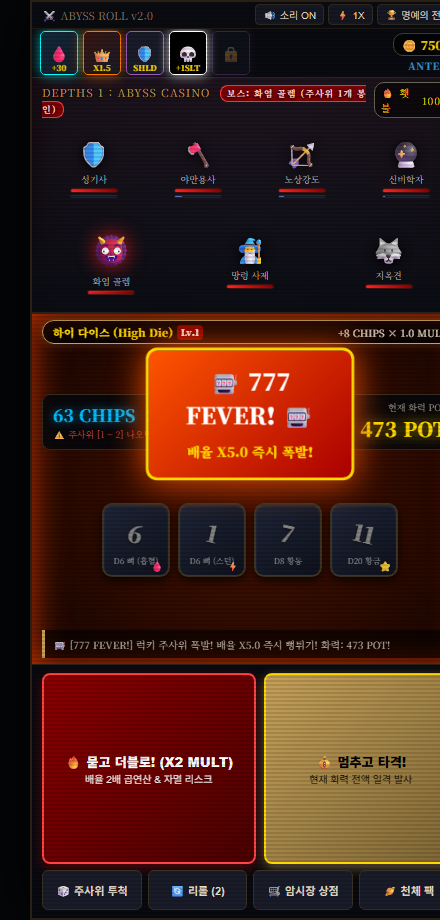
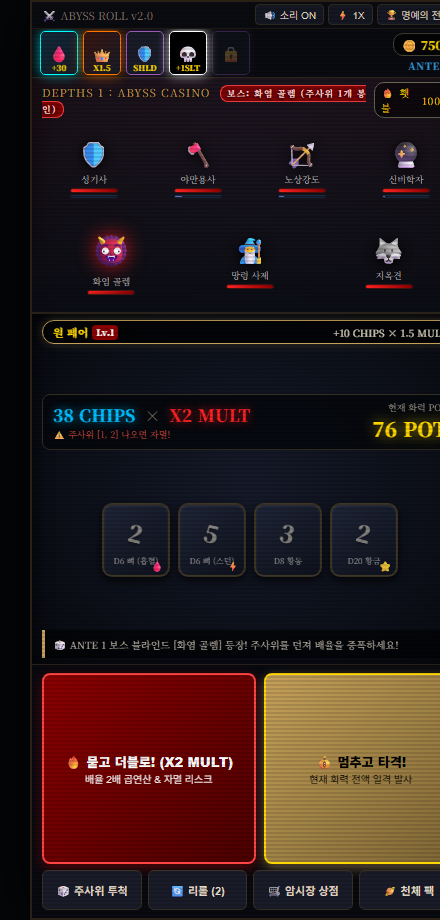
feat(abyss-roll): 2.1 Tarot booster packs, mobile haptic feedback, animated dice tumbling, and custom hand sound fanfares

Changed region(s): [[0.0591, 0.3348, 1.0, 0.7304]]

diff --git a/abyss_roll.html b/abyss_roll.html
@@ -936,6 +936,12 @@
         <button class="btn-buy" onclick="buyItem('celestial_pack', 110)">개봉하기</button>
       </div>
       <div class="shop-card">
+        <div class="shop-card-title">🔮 점술 타로 팩</div>
+        <div class="shop-card-desc">신비한 타로 아르카나 카드로 주사위/골드/체력 강화</div>
+        <div class="shop-card-price">95G</div>
+        <button class="btn-buy" onclick="buyItem('tarot_pack', 95)">개봉하기</button>
+      </div>
+      <div class="shop-card">
         <div class="shop-card-title">🛡 불사조 보험 계약</div>
         <div class="shop-card-desc">자멸(BUST) 1회 완전 무효 방어</div>
         <div class="shop-card-price">100G</div>
@@ -1097,11 +1103,31 @@ function playCoinSound() {
   setTimeout(() => playTone(1318, 0.15, 'sine', 0.4), 80 / gameSpeed);
 }
 
-function playFeverFanfare() {
-  [523, 659, 783, 1046, 1318].forEach((f, idx) => {
-    setTimeout(() => playTone(f, 0.15, 'triangle', 0.5), (idx * 90) / gameSpeed);
-  });
+function triggerHaptic(type) {
+  if (!navigator.vibrate) return;
+  try {
+    if (type === 'roll') navigator.vibrate(25);
+    else if (type === 'push') navigator.vibrate([35, 20, 55]);
+    else if (type === 'bust') navigator.vibrate([90, 40, 90, 40, 150]);
+    else if (type === 'crit') navigator.vibrate([100, 30, 80]);
+    else if (type === 'coin') navigator.vibrate([15, 10, 20]);
+  } catch(e) {}
 }
+
+function playHandFanfare(hand) {
+  if (isAudioMuted) return;
+  initAudio();
+  if (hand === '야추 (5 of a Kind)') {
+    [523, 659, 783, 1046, 1318].forEach((f, i) => setTimeout(() => playTone(f, 0.15, 'triangle', 0.5), (i * 70) / gameSpeed));
+  } else if (hand === '포카드 (4 of a Kind)' || hand === '풀하우스 (Full House)') {
+    [440, 554, 659, 880].forEach((f, i) => setTimeout(() => playTone(f, 0.12, 'sine', 0.45), (i * 80) / gameSpeed));
+  } else if (hand === '스트레이트 (Straight)' || hand === '트리플 (3 of a Kind)') {
+    [392, 523, 659].forEach((f, i) => setTimeout(() => playTone(f, 0.1, 'sine', 0.4), (i * 90) / gameSpeed));
+  } else {
+    playTone(440, 0.08, 'sine', 0.3);
+  }
+}
+
 
 function toggleAudio() {
   initAudio();
@@ -1211,29 +1237,41 @@ function evaluateDiceHand(values) {
 function initialRoll() {
   initAudio();
   playDiceSound();
+  triggerHaptic('roll');
 
-  // 주사위 회전 연출
+  // 주사위 롤링 텀블링 애니메이션
   for (let i = 0; i < 4; i++) {
     const el = document.getElementById(`slot-${i}`);
     el.classList.add('rolling');
-    setTimeout(() => el.classList.remove('rolling'), 350 / gameSpeed);
+    let tumbleCount = 0;
+    const interval = setInterval(() => {
+      document.getElementById(`dval-${i}`).innerText = Math.floor(Math.random() * diceSides[i]) + 1;
+      tumbleCount++;
+      if (tumbleCount > 5) {
+        clearInterval(interval);
+        document.getElementById(`dval-${i}`).innerText = diceValues[i];
+        el.classList.remove('rolling');
+      }
+    }, 40 / gameSpeed);
   }
 
   let luckyCount = 0;
   for (let i = 0; i < 4; i++) {
     diceValues[i] = Math.floor(Math.random() * diceSides[i]) + 1;
-    document.getElementById(`dval-${i}`).innerText = diceValues[i];
     if (diceValues[i] >= 7) luckyCount++;
   }
 
-  currentDetectedHand = evaluateDiceHand(diceValues);
-  applyHandScore();
+  setTimeout(() => {
+    currentDetectedHand = evaluateDiceHand(diceValues);
+    applyHandScore();
+    playHandFanfare(currentDetectedHand);
 
-  if (luckyCount >= 2) {
-    triggerFeverTime();
-  } else {
-    setLog(`🎲 [${currentDetectedHand}] 감지! 화력: ${currentPot} POT! 묻고 더블로!`);
-  }
+    if (luckyCount >= 2) {
+      triggerFeverTime();
+    } else {
+      setLog(`🎲 [${currentDetectedHand}] 감지! 화력: ${currentPot} POT! 묻고 더블로!`);
+    }
+  }, 220 / gameSpeed);
 }
 
 function applyHandScore() {
@@ -1323,6 +1361,7 @@ function pushDoubleDown() {
     }
 
     playBustSound();
+    triggerHaptic('bust');
     document.getElementById('mobile-viewport').classList.add('bust-screen-shake');
     setTimeout(() => document.getElementById('mobile-viewport').classList.remove('bust-screen-shake'), 400);
 
@@ -1353,6 +1392,7 @@ function pushDoubleDown() {
 
   updateBalatroUI();
   playCoinSound();
+  triggerHaptic('push');
   setLog(`🔥 [X2 MULT 돌파!] 주사위 [${testRoll}] 안착! 배율 ${currentMult}X! 화력: ${currentPot} POT!`);
 }
 
@@ -1363,6 +1403,7 @@ function bankAndStrike() {
     return;
   }
 
+  triggerHaptic('crit');
   let finalDmg = currentPot;
   let multSnapshot = currentMult;
   totalDamageDealt += finalDmg;
@@ -1539,6 +1580,9 @@ function buyItem(itemId, price) {
   } else if (itemId === 'celestial_pack') {
     closeShop();
     openPackModal('celestial');
+  } else if (itemId === 'tarot_pack') {
+    closeShop();
+    openPackModal('tarot');
   } else if (itemId === 'bust_shield') {
     hasBustShield = true;
     document.getElementById('joker-2').style.opacity = '1';
@@ -1582,7 +1626,31 @@ function openPackModal(type) {
       const card = document.createElement('div');
       card.className = 'pack-choice-card';
       card.innerHTML = `<div class="pack-card-info"><h4>${j.name}</h4><p>${j.desc}</p></div><button class="btn-buy" style="padding:6px 12px;">선택</button>`;
-      card.onclick = () => { j.fn(); closePackModal(); playFeverFanfare(); };
+      card.onclick = () => { j.fn(); closePackModal(); playHandFanfare('야추 (5 of a Kind)'); };
+      container.appendChild(card);
+    });
+  } else if (type === 'tarot') {
+    title.innerText = '🔮 점술 타로 팩 개봉';
+    const tarots = [
+      { name: '마법사 (The Magician)', desc: '2번 주사위를 즉시 D20 황금 주사위로 승급', fn: () => { diceSides[2] = 20; document.getElementById('dtag-2').innerText = 'D20 황금'; showBanner('🔮 2번 주사위가 D20으로 승급!'); } },
+      { name: '광대 (The Fool)', desc: '심연의 골드 보물상자 개봉 (+200G 즉시 획득)', fn: () => { gold += 200; document.getElementById('gold-val').innerText = `${gold}G`; spawnCoinShower(); showBanner('🃏 +200G 골드 복사 획득!'); } },
+      { name: '정의 (Justice)', desc: '파티 전체 체력 100% 완전 회복 및 스트레스 0 정화', fn: () => {
+        heroes.forEach((h, i) => { h.hp = h.maxHp; h.stress = 0; });
+        updateEntityUI();
+        showBanner('⚖ 파티 체력/스트레스 완전 회복!');
+      }},
+      { name: '악마 (The Devil)', desc: '상시 배율 +0.6X 영구 폭발 (파티 스트레스 +20)', fn: () => {
+        extraJokerMult += 0.6;
+        heroes.forEach(h => h.stress = Math.min(100, h.stress + 20));
+        updateEntityUI();
+        showBanner('😈 악마의 계약 체결! 배율 +0.6X 폭발!');
+      }}
+    ];
+    tarots.forEach(t => {
+      const card = document.createElement('div');
+      card.className = 'pack-choice-card';
+      card.innerHTML = `<div class="pack-card-info"><h4>${t.name}</h4><p>${t.desc}</p></div><button class="btn-buy" style="padding:6px 12px;">선택</button>`;
+      card.onclick = () => { t.fn(); closePackModal(); playHandFanfare('포카드 (4 of a Kind)'); };
       container.appendChild(card);
     });
   } else {
@@ -1601,7 +1669,7 @@ function openPackModal(type) {
         showBanner(`🪐 ${p.name} 흡수! [${p.hand}] Lv.${handBook[p.hand].lvl} 달성!`);
         applyHandScore();
         closePackModal();
-        playFeverFanfare();
+        playHandFanfare('포카드 (4 of a Kind)');
       };
       container.appendChild(card);
     });

diff --git a/build_full_abyss_roll.py b/build_full_abyss_roll.py
@@ -942,6 +942,12 @@ HTML_CONTENT = """<!DOCTYPE html>
         <button class="btn-buy" onclick="buyItem('celestial_pack', 110)">개봉하기</button>
       </div>
       <div class="shop-card">
+        <div class="shop-card-title">🔮 점술 타로 팩</div>
+        <div class="shop-card-desc">신비한 타로 아르카나 카드로 주사위/골드/체력 강화</div>
+        <div class="shop-card-price">95G</div>
+        <button class="btn-buy" onclick="buyItem('tarot_pack', 95)">개봉하기</button>
+      </div>
+      <div class="shop-card">
         <div class="shop-card-title">🛡 불사조 보험 계약</div>
         <div class="shop-card-desc">자멸(BUST) 1회 완전 무효 방어</div>
         <div class="shop-card-price">100G</div>
@@ -1103,11 +1109,31 @@ function playCoinSound() {
   setTimeout(() => playTone(1318, 0.15, 'sine', 0.4), 80 / gameSpeed);
 }
 
-function playFeverFanfare() {
-  [523, 659, 783, 1046, 1318].forEach((f, idx) => {
-    setTimeout(() => playTone(f, 0.15, 'triangle', 0.5), (idx * 90) / gameSpeed);
-  });
+function triggerHaptic(type) {
+  if (!navigator.vibrate) return;
+  try {
+    if (type === 'roll') navigator.vibrate(25);
+    else if (type === 'push') navigator.vibrate([35, 20, 55]);
+    else if (type === 'bust') navigator.vibrate([90, 40, 90, 40, 150]);
+    else if (type === 'crit') navigator.vibrate([100, 30, 80]);
+    else if (type === 'coin') navigator.vibrate([15, 10, 20]);
+  } catch(e) {}
 }
+
+function playHandFanfare(hand) {
+  if (isAudioMuted) return;
+  initAudio();
+  if (hand === '야추 (5 of a Kind)') {
+    [523, 659, 783, 1046, 1318].forEach((f, i) => setTimeout(() => playTone(f, 0.15, 'triangle', 0.5), (i * 70) / gameSpeed));
+  } else if (hand === '포카드 (4 of a Kind)' || hand === '풀하우스 (Full House)') {
+    [440, 554, 659, 880].forEach((f, i) => setTimeout(() => playTone(f, 0.12, 'sine', 0.45), (i * 80) / gameSpeed));
+  } else if (hand === '스트레이트 (Straight)' || hand === '트리플 (3 of a Kind)') {
+    [392, 523, 659].forEach((f, i) => setTimeout(() => playTone(f, 0.1, 'sine', 0.4), (i * 90) / gameSpeed));
+  } else {
+    playTone(440, 0.08, 'sine', 0.3);
+  }
+}
+
 
 function toggleAudio() {
   initAudio();
@@ -1217,29 +1243,41 @@ function evaluateDiceHand(values) {
 function initialRoll() {
   initAudio();
   playDiceSound();
+  triggerHaptic('roll');
 
-  // 주사위 회전 연출
+  // 주사위 롤링 텀블링 애니메이션
   for (let i = 0; i < 4; i++) {
     const el = document.getElementById(`slot-${i}`);
     el.classList.add('rolling');
-    setTimeout(() => el.classList.remove('rolling'), 350 / gameSpeed);
+    let tumbleCount = 0;
+    const interval = setInterval(() => {
+      document.getElementById(`dval-${i}`).innerText = Math.floor(Math.random() * diceSides[i]) + 1;
+      tumbleCount++;
+      if (tumbleCount > 5) {
+        clearInterval(interval);
+        document.getElementById(`dval-${i}`).innerText = diceValues[i];
+        el.classList.remove('rolling');
+      }
+    }, 40 / gameSpeed);
   }
 
   let luckyCount = 0;
   for (let i = 0; i < 4; i++) {
     diceValues[i] = Math.floor(Math.random() * diceSides[i]) + 1;
-    document.getElementById(`dval-${i}`).innerText = diceValues[i];
     if (diceValues[i] >= 7) luckyCount++;
   }
 
-  currentDetectedHand = evaluateDiceHand(diceValues);
-  applyHandScore();
+  setTimeout(() => {
+    currentDetectedHand = evaluateDiceHand(diceValues);
+    applyHandScore();
+    playHandFanfare(currentDetectedHand);
 
-  if (luckyCount >= 2) {
-    triggerFeverTime();
-  } else {
-    setLog(`🎲 [${currentDetectedHand}] 감지! 화력: ${currentPot} POT! 묻고 더블로!`);
-  }
+    if (luckyCount >= 2) {
+      triggerFeverTime();
+    } else {
+      setLog(`🎲 [${currentDetectedHand}] 감지! 화력: ${currentPot} POT! 묻고 더블로!`);
+    }
+  }, 220 / gameSpeed);
 }
 
 function applyHandScore() {
@@ -1329,6 +1367,7 @@ function pushDoubleDown() {
     }
 
     playBustSound();
+    triggerHaptic('bust');
     document.getElementById('mobile-viewport').classList.add('bust-screen-shake');
     setTimeout(() => document.getElementById('mobile-viewport').classList.remove('bust-screen-shake'), 400);
 
@@ -1359,6 +1398,7 @@ function pushDoubleDown() {
 
   updateBalatroUI();
   playCoinSound();
+  triggerHaptic('push');
   setLog(`🔥 [X2 MULT 돌파!] 주사위 [${testRoll}] 안착! 배율 ${currentMult}X! 화력: ${currentPot} POT!`);
 }
 
@@ -1369,6 +1409,7 @@ function bankAndStrike() {
     return;
   }
 
+  triggerHaptic('crit');
   let finalDmg = currentPot;
   let multSnapshot = currentMult;
   totalDamageDealt += finalDmg;
@@ -1544,6 +1585,9 @@ function buyItem(itemId, price) {
   } else if (itemId === 'celestial_pack') {
     closeShop();
     openPackModal('celestial');
+  } else if (itemId === 'tarot_pack') {
+    closeShop();
+    openPackModal('tarot');
   } else if (itemId === 'bust_shield') {
     hasBustShield = true;
     document.getElementById('joker-2').style.opacity = '1';
@@ -1587,7 +1631,31 @@ function openPackModal(type) {
       const card = document.createElement('div');
       card.className = 'pack-choice-card';
       card.innerHTML = `<div class="pack-card-info"><h4>${j.name}</h4><p>${j.desc}</p></div><button class="btn-buy" style="padding:6px 12px;">선택</button>`;
-      card.onclick = () => { j.fn(); closePackModal(); playFeverFanfare(); };
+      card.onclick = () => { j.fn(); closePackModal(); playHandFanfare('야추 (5 of a Kind)'); };
+      container.appendChild(card);
+    });
+  } else if (type === 'tarot') {
+    title.innerText = '🔮 점술 타로 팩 개봉';
+    const tarots = [
+      { name: '마법사 (The Magician)', desc: '2번 주사위를 즉시 D20 황금 주사위로 승급', fn: () => { diceSides[2] = 20; document.getElementById('dtag-2').innerText = 'D20 황금'; showBanner('🔮 2번 주사위가 D20으로 승급!'); } },
+      { name: '광대 (The Fool)', desc: '심연의 골드 보물상자 개봉 (+200G 즉시 획득)', fn: () => { gold += 200; document.getElementById('gold-val').innerText = `${gold}G`; spawnCoinShower(); showBanner('🃏 +200G 골드 복사 획득!'); } },
+      { name: '정의 (Justice)', desc: '파티 전체 체력 100% 완전 회복 및 스트레스 0 정화', fn: () => {
+        heroes.forEach((h, i) => { h.hp = h.maxHp; h.stress = 0; });
+        updateEntityUI();
+        showBanner('⚖ 파티 체력/스트레스 완전 회복!');
+      }},
+      { name: '악마 (The Devil)', desc: '상시 배율 +0.6X 영구 폭발 (파티 스트레스 +20)', fn: () => {
+        extraJokerMult += 0.6;
+        heroes.forEach(h => h.stress = Math.min(100, h.stress + 20));
+        updateEntityUI();
+        showBanner('😈 악마의 계약 체결! 배율 +0.6X 폭발!');
+      }}
+    ];
+    tarots.forEach(t => {
+      const card = document.createElement('div');
+      card.className = 'pack-choice-card';
+      card.innerHTML = `<div class="pack-card-info"><h4>${t.name}</h4><p>${t.desc}</p></div><button class="btn-buy" style="padding:6px 12px;">선택</button>`;
+      card.onclick = () => { t.fn(); closePackModal(); playHandFanfare('포카드 (4 of a Kind)'); };
       container.appendChild(card);
     });
   } else {
@@ -1606,7 +1674,7 @@ function openPackModal(type) {
         showBanner(`🪐 ${p.name} 흡수! [${p.hand}] Lv.${handBook[p.hand].lvl} 달성!`);
         applyHandScore();
         closePackModal();
-        playFeverFanfare();
+        playHandFanfare('포카드 (4 of a Kind)');
       };
       container.appendChild(card);
     });
